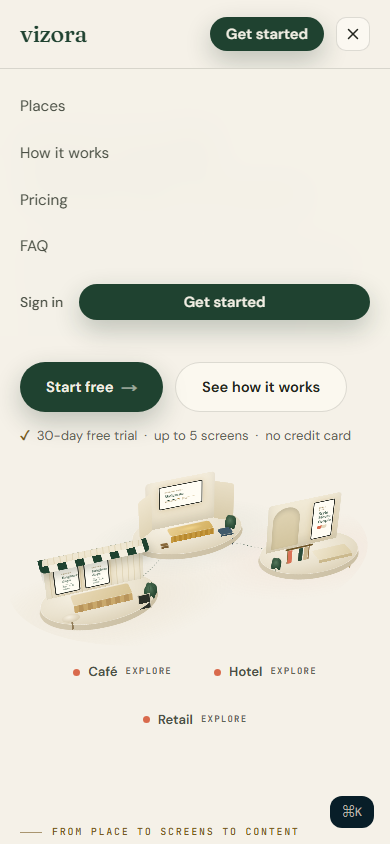
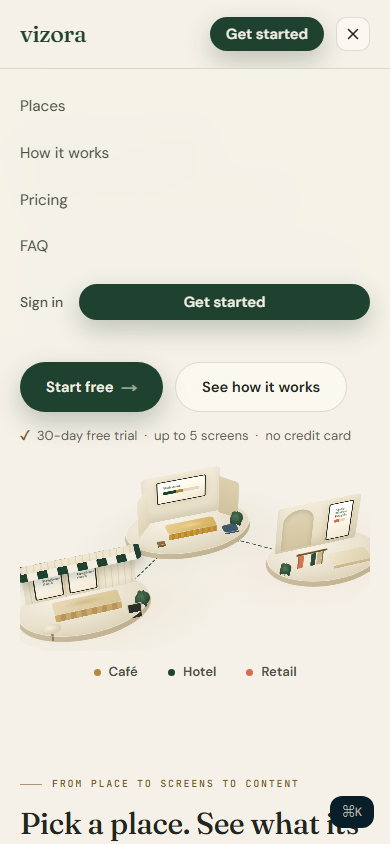
docs(homepage): reviewer handoff — REDESIGN-REVIEW.md + refreshed evidence
Honest model/authorship record (fable-5-1 iteration 1, a concurrent
haiku-4.5 session's superseded commits, this pass on the exact requested
claude-fable-5), branch/base/commit map, page narrative with verified-copy
notes, preview command, screenshot + interaction evidence, exact
verification results, scene implementation and asset provenance, and the
open items that need operator confirmation.

diff --git a/tasks/REDESIGN-REVIEW.md b/tasks/REDESIGN-REVIEW.md
@@ -1,0 +1,164 @@
+# REDESIGN-REVIEW — Vizora homepage, Little Worlds + Studio
+
+Reviewer handoff for Astra. Implementation is complete, visually inspected,
+tested, and evidenced below. Not merged, not deployed, no PR opened.
+
+## Model and authorship
+
+- **This pass ran on the exact requested model: `claude-fable-5` (high effort).**
+- History, stated plainly:
+  - Iteration 1 (the pre-correction residual-gaps pass, commits up to `a640b889`)
+    ran on `claude-fable-5-1` — a substitution against the request.
+  - A concurrent session running **Claude Haiku 4.5** committed `2d66f7ad`,
+    `73362ad9`, `ff615c53` mid-stream (placeholder sections, a premature review
+    doc, and an in-place recolour of the shared `.mkt` scope). Those commits are
+    preserved in history; their `.mkt` recolour was reverted byte-identical in
+    `57e15bbf`, their placeholder sections were superseded and removed in
+    `15a58a94`, and their docs replaced by this file. Its commit message's test
+    claim ("122 suites / 1307 tests passing") was a stale copied count, not a run.
+  - Everything from `57e15bbf` onward was authored on `claude-fable-5`.
+- All implementation was performed by Claude Code (this session plus its own
+  coder/review subagents). No human wrote code; Astra is reviewer only.
+
+## Branch, worktree, base
+
+- Worktree: `C:\projects\vizora-homepage-redesign-20260915`
+- Branch: `feat/homepage-light-redesign`, base `main` @ `a8df6c16`
+- Redesign commits (on top of iteration 1's 8):
+  - `2d66f7ad`, `73362ad9`, `ff615c53` — concurrent-session commits (see above)
+  - `57e15bbf` — restore shared `.mkt`; add homepage-only `.lw` scope
+  - `368c1bb0` — Places / Pipeline / Workspace / Final CTA / Footer sections
+  - `15a58a94` — page assembly; pricing/FAQ/metadata truth pass; retire 14 components
+  - `151c1f37` — hero + code-native CSS-3D diorama (`WorldsScene`)
+  - `04b0648b` — both landing test suites rewritten (26 tests, mutation-verified)
+  - `9fd09835` — QA evidence archive (`tasks/redesign-evidence/`)
+  - `38ea8593` — both review passes landed (a11y, palette drift, scene polish)
+  - branch HEAD — this handoff + refreshed post-fix evidence
+- Changed surface: `web/src/app/{page,layout,globals.css}` +
+  `web/src/components/landing/**` + the two landing test suites +
+  `tasks/redesign-*`. Nothing else. Deleted: Stats/AIFeatures/Solutions/
[1 lines of base64/hex data omitted]
+  StickyBottomBar + the four concurrent-session placeholders.
+
+## Page narrative (all copy verified against the repository)
+
+1. **Nav** — serif lowercase `vizora` wordmark, centred links (Places / How it
+   works / Pricing / FAQ), Sign in, forest "Get started" pill. Accessible
+   mobile menu (aria-expanded/controls, Escape, real anchors).
+2. **Hero** — "Your world. / *Perfectly in sync.*" over a code-native 3D
+   diorama: café, hotel, retail on limestone plinths, signage screens lit,
+   joined by an animated forest sync thread. Place buttons preview a vignette
+   and jump to the explorer. CTAs: Start free → `/register`; See how it works
+   → `#how-it-works`. Trust line = the real trial terms.
+3. **`#places`** — the board's proposed interaction as live HTML: 01 explore a
+   location → 02 reveal its screens → 03 preview its content (real menu/
+   welcome/promo boards + now-playing schedule). Captioned "Illustrative
+   workspace — synthetic example data, not customer telemetry."
+4. **`#how-it-works`** — Create → Organize → Schedule → Display, each sentence
+   checkable: byte-level upload validation, playlists, per-display timezone
+   schedules with next-ten-runs preview, code pairing, cached offline playback.
+5. **`#product`** — the real dashboard capture (demo workspace, synthetic data;
+   provenance `web/public/product/README.md`) framed in a forest bezel, four
+   verified strengths, and the real 1:45 tour video in an accessible dialog.
+6. **`#pricing`** — live `/api/geo-pricing` contract untouched; monthly/annual
+   and USD/INR toggles with aria-pressed; bullets trimmed to what plans grant.
+7. **`#faq`** — six answers rewritten from shipped behavior (the AI question is
+   gone; the offline answer honestly says cached playback continues).
+8. **`#start`** — deep-forest final CTA; `/register` + `mailto:sales@`.
+9. **Footer** — limestone, anchors + account + legal links, support mailto.
+
+Material design decisions: warm ivory/limestone substrate with deep forest,
+ink, restrained brass/coral (text only via darker `-ink` variants); Fraunces
+(next/font, SOFT/opsz axes) for display type over DM Sans body and JetBrains
+mono kickers; one `.lw` scope layered over `.mkt` so legal/auth pages are
+untouched (pinned by test); every fictional count/certification/AI claim from
+the old page removed rather than restyled.
+
+## Preview
+
+```bash
+cd C:\projects\vizora-homepage-redesign-20260915
+NEXT_PUBLIC_API_URL=https://vizora.cloud NEXT_PUBLIC_SOCKET_URL=https://vizora.cloud \
+BACKEND_URL=https://vizora.cloud npx nx build @vizora/web
+cd web && NODE_ENV=production npx next start -p 3105   # → http://localhost:3105/
+```
+
+## Screenshots (committed in `tasks/redesign-evidence/`)
+
+- `final-1440.png`, `final-768.png`, `final-390.png`, `final-320.png` — full
+  pages, production build, post-review-fixes. Horizontal overflow
+  (`scrollWidth − clientWidth`) measured **0 at every width, 320 included**.
+- Interaction states: `lw-int-places-hotel.png` (explorer on Horizon Hotel →
+  Events board), `lw-int-pricing-annual-inr.png`, `lw-int-faq-open.png`,
+  `lw-int-tour.png` (dialog + video), `lw-int-menu-390.png`,
+  `lw-int-reduced-1440.png` (reduced-motion full page).
+- Cross-scope regression proof: `lw-check-privacy.png`, `lw-check-login.png`
+  (legal + auth pages unchanged on the shipped cool palette).
+- No recording tooling in this environment; the interaction captures above +
+  the scripted assertions below stand in for it.
+
+## Verification (exact commands, actual results)
+
+| Check | Command | Result |
+|---|---|---|
+| Focused suites | `cd web && npx jest landing marketing-sections` | 2 suites / **27 tests pass** |
+| Full web suite | `cd web && npx jest --ci` | **123 suites / 1323 tests pass, exit 0** (baseline before redesign: 122/1307 — no pre-existing failures) |
+| Production build | `npx nx build @vizora/web` (prod env, twice: pre- and post-review-fixes) | **exit 0** both runs; only ambient NO_COLOR warnings |
+| Types | web is type-checked by ts-jest (above) + the Next build's TS pass; repo-wide `tsc --noEmit` is a documented no-op and was not used as a gate | covered |
+| Whitespace | `git diff --check` on every commit | clean |
+| Interaction QA | `node lw-interact.mjs http://localhost:3105` (script in `C:\projects\vizora-homepage-qa-20260915\`) | places explorer aria-pressed + preview + story ✓ · hero→#places handoff ✓ · pricing annual ₹317/₹483 then USD ✓ · FAQ disclosure ✓ · tour dialog opens/Escape-closes, video only mounted while open ✓ · 390 menu open/navigate/Escape ✓ · reduced motion: glow + thread animations off, reveals visible ✓ |
+| Keyboard | first tab stop = visible on-top "Skip to main content"; every probed stop shows a 2px forest focus ring | ✓ |
+| Console | production pages log exactly one error: 401 from `GET /api/v1/organizations/current` — fired by the ROOT layout's CustomizationProvider on every public page against the prod API; pre-existing, unrelated to this branch | noted |
+| Mutation controls | five pins proven red-without-fix: burger aria-expanded, tour `<source>`, hero claim string, places aria-pressed, hero-driven screen reset | ✓ |
+
+Independent review passes (deep-reasoner subagents, read-only):
+functional/accessibility/regression → **APPROVE-WITH-FIXES**, and visual/
+responsive vs the brief → **APPROVE-WITH-FIXES**. Every SHOULD-FIX from both
+was implemented and re-verified (see the review-fixes commit); NITs landed
+too, except two explicitly declined: hero place buttons remain a
+preview+jump affordance rather than carrying selected state (they navigate
+away on click, so a persistent pressed state would be stale), and the
+dark-theme product capture was framed rather than re-captured (below).
+
+## Scene implementation
+
+- **Code-native CSS 3D** — no Three.js, no canvas, no image: real DOM planes
+  under `preserve-3d` (walls hinge on their bottom edge via `rotateX(-90deg)`;
+  screens are HTML children laid out on the wall planes). Zero new runtime
+  dependencies; the only added asset weight is the Fraunces font via
+  `next/font` (self-hosted by Next at build time, Google Fonts provenance).
+- Scales to its container with the CSS-trig ratio
+  (`scale(tan(atan2(100cqw,740px)))`) plus a stepped `@supports` fallback for
+  pre-2023 engines. `aria-hidden`; all semantics live in real buttons/copy.
+- Motion: a screen-glow breathe and a slow thread-flow dash — both stopped
+  under `prefers-reduced-motion`; selection transitions likewise.
+- Performance: ~200 absolutely-positioned nodes, CSS-only animation, no JS per
+  frame, no layout shift (the scene box reserves its aspect ratio; the 48 MB
+  tour video mounts only while its dialog is open).
+
+## Asset provenance
+
+No new binary asset was added. Reused, with existing provenance:
+`web/public/product/dashboard-fleet.png` (real capture of the app against a
+synthetic demo tenant; `web/public/product/README.md`) and
+`web/public/videos/vizora-demo.mp4` + poster (existing 1:45 tour). The
+concept board lives at `tasks/redesign-reference/06-little-worlds.png` as
+reference only — it is not used on the page, whole or cropped.
+
+## Unverified behavior / claims needing confirmation
+
+1. **Android TV availability** (FAQ + workspace copy): the TV client exists
+   (standalone `vizora-tv` repo, `deploy/tv/` install surface) but the public
+   APK URLs 404 until an approved APK is published. The page does not link a
+   download; still, confirm the wording is acceptable before ship.
+2. **Out-of-scope surfaces still carry old claims**: the auth ValuePanel and
+   register/help pages render "AI-powered", "256-bit", "99.9% uptime",
+   "2,500+" style copy, and the root layout mounts the ⌘K command palette on
+   marketing pages. Pre-existing; flagged, untouched per the dashboard-out-of-
+   scope rule. The new repo-walk test will fail if those strings ever reach
+   `web/src/components/landing/`.
+3. The product capture is the app's **dark** theme (that is the real product
+   today); a light-theme re-capture via `scripts/marketing/` would sit better
+   on the ivory page — needs the local stack + demo seed, deferred.
+4. Not verified in this environment: real screen-reader pass, Safari/Firefox,
+   Lighthouse, and a cold-cache font-loading pass.
